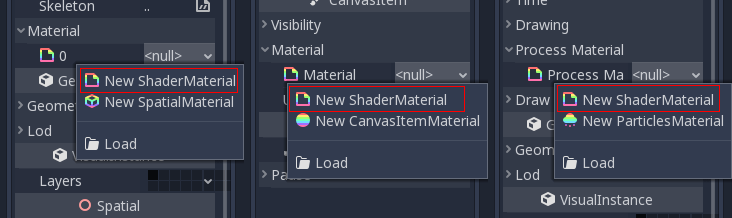
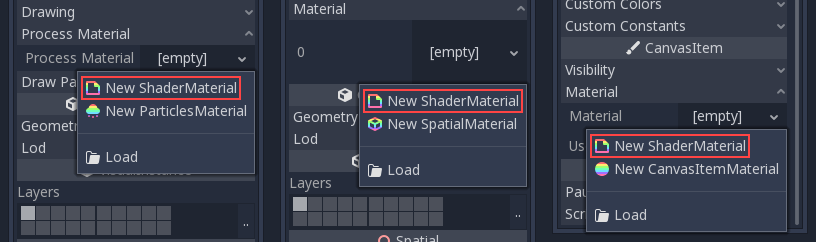
Update shader material page for Godot 3.1

diff --git a/tutorials/shading/shader_materials.rst b/tutorials/shading/shader_materials.rst
@@ -36,9 +36,24 @@ Create a new ShaderMaterial in some object of your choice. Go to the
 
 .. image:: img/shader_material_create.png
 
-Edit the newly created shader, and the shader editor will open:
+Next, click on the shader material to see its properties. From here you
+can create a shader or visual shader. Regular shaders use code to set
+their properties while a visual shader uses a node based workflow.
+
+There is no way to convert between the two, so if you decide you want to
+change to a visual shader or vice versa, you will have to start from scratch.
+
+Choose one of them and you can start editing your shader.
+
+.. image:: img/shader_create.png
+
+If you create a regular shader click on it and the shader editor will open.
 
 .. image:: img/shader_material_editor.png
+
+If you create a visual shader the visual shader editor will open automatically.
+
+.. image:: img/visual_shader_editor.png
 
 Converting to ShaderMaterial
 ----------------------------
@@ -48,3 +63,8 @@ ParticlesMaterial to ShaderMaterial. To do so, go to the material properties
 and select the convert option.
 
 .. image:: img/shader_material_convert.png
+
+.. note::
+    
+   Using the convert option will turn the SpatialMaterial into a ShaderMaterial
+   with a text shader, not a visual shader.
